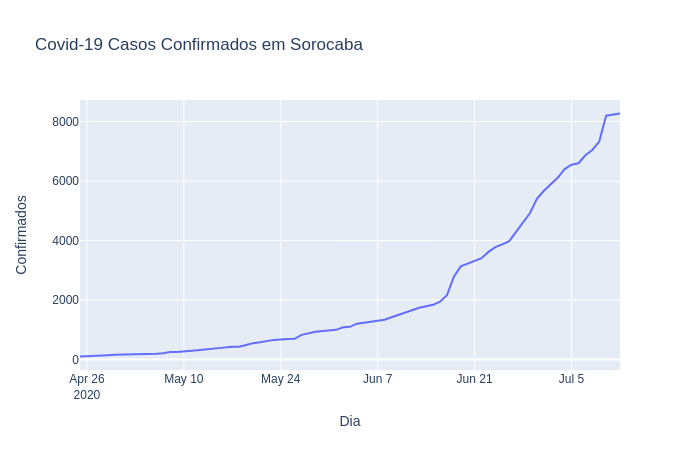
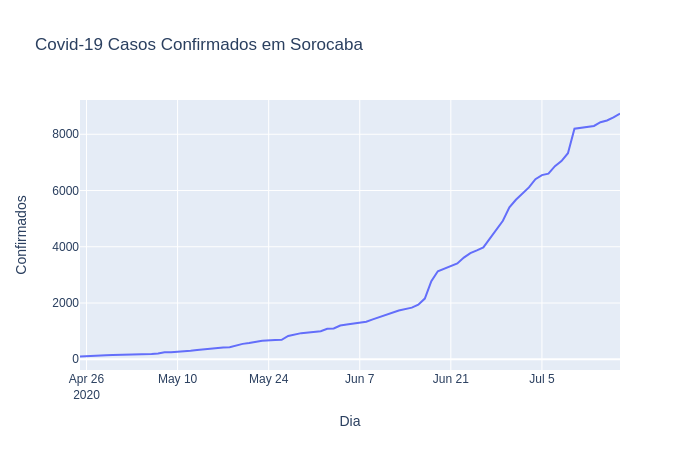
dados atualizados 17/07

diff --git a/README.md b/README.md
@@ -1,8 +1,8 @@
 ## Dados divulgados pela Prefeitura de Sorocaba sobre os casos de Covid-19
 Há uma planilha com os dados retirados das imagens divulgadas [AQUI](https://github.com/lucas-koiti/covid19-sorocaba/blob/master/dados/planilha_csv/dados.csv).
 
-## Gráfico de casos confirmados até 12/07/2020
+## Gráfico de casos confirmados até 17/07/2020
 <img src= "confirmados.png">
 
-## Gráfico de óbitos por covid-19 até 12/07/2020
+## Gráfico de óbitos por covid-19 até 17/07/2020
 <img src= "obitos.png">
